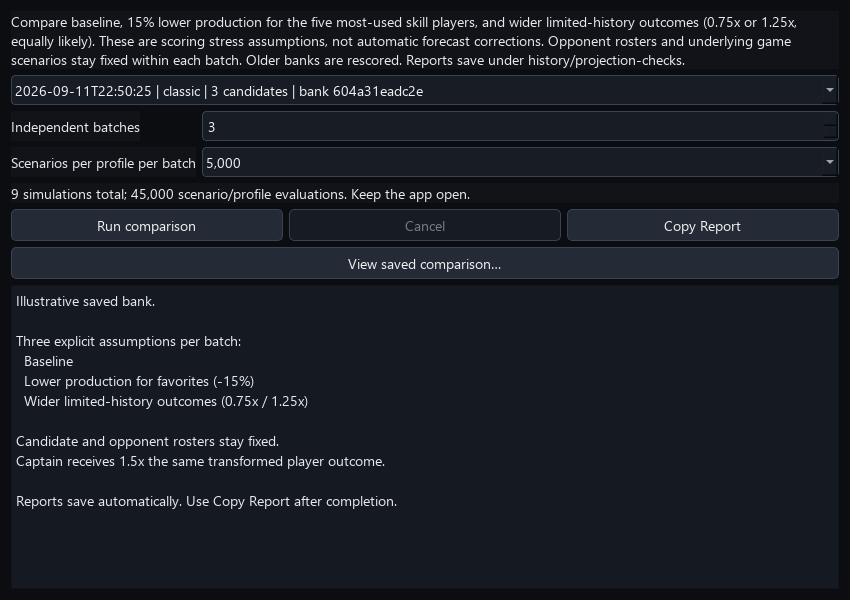
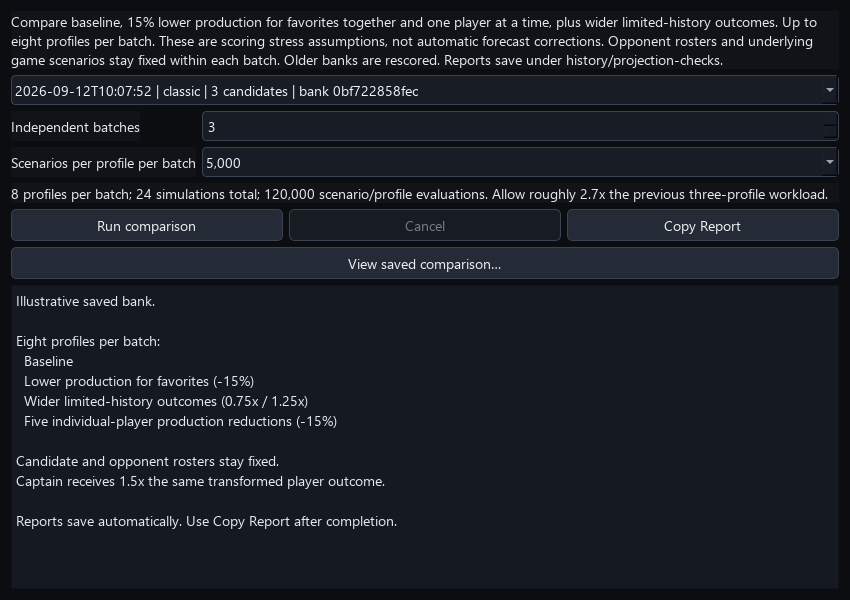
Add individual-player production sensitivity for Classic and Showdown

diff --git a/projection_sensitivity.py b/projection_sensitivity.py
@@ -14,7 +14,7 @@ from lineup_ranking import ranked_lineups
 from nfl_simulation import player_key
 
 PROFILES = ('Baseline', 'Lower production for favorites', 'Wider limited-history outcomes')
-VERSION = 'projection-stress-v2'
+VERSION = 'projection-stress-v3'
 from usage_history import history_evidence
 
 def roster(lu, kind):
@@ -45,6 +45,14 @@ def prepare_targets(payload):
                           low=.75, high=1.25, **evidence))
     return {PROFILES[0]:[], PROFILES[1]:lower, PROFILES[2]:wider}
 
+def comparison_targets(payload, individual=True):
+    targets = prepare_targets(payload)
+    if individual:
+        for i, target in enumerate(targets[PROFILES[1]], 1):
+            targets[f"Lower production: {target['player']} (individual {i})"] = [dict(target)]
+    return targets
+
+
 class OutcomeStress:
     def __init__(self, profile, targets, seed):
         self.profile=profile; self.targets={p['key'] for p in targets}
@@ -55,7 +63,7 @@ class OutcomeStress:
         result=dict(outcomes); self.count+=1
         for k in sorted(self.targets):
             if k not in outcomes: continue
-            scale = .85 if self.profile==PROFILES[1] else (.75 if self.rng.random()<.5 else 1.25)
+            scale = .85 if self.profile!=PROFILES[2] else (.75 if self.rng.random()<.5 else 1.25)
             result[k]=outcomes[k]*scale
             sums=self.sums[k]; sums[0]+=outcomes[k]; sums[1]+=result[k]; sums[2]+=1
         return result
@@ -63,16 +71,16 @@ class OutcomeStress:
         return dict(base_outcome_id=self.digest.hexdigest(),scenarios=self.count,
                     player_means={k:dict(baseline=a/n,stressed=b/n) for k,(a,b,n) in self.sums.items() if n})
 
-def run_projection(path, *, batches=3, scenarios=5000, cancelled=lambda:False, progress=lambda s:None, simulate=None):
+def run_projection(path, *, batches=3, scenarios=5000, cancelled=lambda:False, progress=lambda s:None, simulate=None, individual=True):
     if not 1<=batches<=5 or not 1000<=scenarios<=10000: raise ValueError('Use 1–5 batches and 1,000–10,000 scenarios.')
-    bank=load_sensitivity_bank(path); p=bank['payload']; targets=prepare_targets(p)
+    bank=load_sensitivity_bank(path); p=bank['payload']; targets=comparison_targets(p, individual); profiles=tuple(targets)
     reference=candidates(p); keys=[identity(lu,p['kind']) for lu in reference]
     if len(set(keys))!=len(keys): raise ValueError('Duplicate candidate identities.')
-    observations={name:[] for name in PROFILES}; evidence=[]; seeds=[]; fields=[]
+    observations={name:[] for name in profiles}; evidence=[]; seeds=[]; fields=[]
     for batch in range(batches):
         if cancelled(): break
         seed=1200007+batch*100003; paired={}; proof={}; diagnostics={}; field_id=None; base_id=None
-        for name in PROFILES:
+        for name in profiles:
             if cancelled(): break
             progress(f'Batch {batch+1}/{batches}: {name}')
             transform=OutcomeStress(name,targets[name],seed)
@@ -106,13 +114,13 @@ def run_projection(path, *, batches=3, scenarios=5000, cancelled=lambda:False, p
                     raise ValueError('Incomplete or invalid candidate scores.')
                 scored[identity(lu,p['kind'])]=dict(rank=i,top1=float(m['sim_top_one_pct']),mean=float(m['sim_mean']))
             paired[name]=scored; proof[name]=ev; diagnostics[name]=diag
-        if len(paired)!=len(PROFILES): break
-        for name in PROFILES: observations[name].append(paired[name])
+        if len(paired)!=len(profiles): break
+        for name in profiles: observations[name].append(paired[name])
         evidence.append(proof); fields.append(diagnostics); seeds.append(seed)
     rows=[]
     for i,(key,lu) in enumerate(zip(keys,reference),1):
         label=' | '.join(('CPT: ' if p['kind']=='showdown' and j==0 else '')+str(v.get('Name','')) for j,v in enumerate(roster(lu,p['kind'])))
-        for name in PROFILES:
+        for name in profiles:
             obs=[batch[key] for batch in observations[name]]; row=dict(saved_rank=i,lineup=label,profile=name)
             if obs:
                 base=mean(b[key]['top1'] for b in observations[PROFILES[0]])
@@ -124,7 +132,7 @@ def run_projection(path, *, batches=3, scenarios=5000, cancelled=lambda:False, p
     return dict(comparison_type='projection',sensitivity_version=VERSION,status='completed' if len(seeds)==batches else 'incomplete',
                 bank_id=bank['bank_id'],input_id=p['input_id'],kind=p['kind'],saved_model=p['model_version'],current_model=model_version(),
                 completed_batches=len(seeds),requested_batches=batches,scenarios=scenarios,opponents=p['field_count'],candidate_count=len(reference),
-                seeds=seeds,targets=targets,evidence=evidence,fields=fields,rows=rows)
+                profiles=list(profiles),individual_tests=individual,seeds=seeds,targets=targets,evidence=evidence,fields=fields,rows=rows)
 
 def format_projection(r):
     lines=['DFS Projection Sensitivity',f"Status: {r['status']}; matched batches {r['completed_batches']}/{r['requested_batches']}",
@@ -134,8 +142,10 @@ def format_projection(r):
            'Lower production: the five most-used QB/RB/WR/TE players in the saved top150 receive 15% lower simulated points, as a workload-shortfall proxy. Touches, game scripts, teammate shares and specialist effects are not recalculated.',
            'Wider outcomes: explicit rookies or players with missing full-season evidence / fewer than four matched games across available current and prior seasons receive independent 0.75x or 1.25x score multipliers with equal probability per scenario. Conditional expected scores are preserved, but finite-sample means can vary. Missing history does not establish rookie status. Counts cover available regular-season rows, not career games. The recent four-week form window is separate. Old banks retain their recorded inputs; reload salaries and build a new bank to capture full-season evidence.',
            'These are explicit hypothetical assumptions, not fitted projection corrections or historical validation. Inputs, ownership, selected outputs and limits remain unchanged. No joint ownership-plus-projection stress is implied.',
-           'Ranks use simulated finish-rate order within this bank; exact ties preserve bank order. Repeating settings repeats seeds. Only complete three-profile batches count.']
-    for name in PROFILES[1:]:
+           'Ranks use simulated finish-rate order within this bank; exact ties preserve bank order. Repeating settings repeats seeds. Only batches completing every requested profile count. Individual reductions use the same 15% scoring proxy, one favorite at a time; effects are not additive because contest ranks are nonlinear.']
+    profiles=r.get('profiles',list(PROFILES))
+    lines.append(f'- Profiles per batch: {len(profiles)}; simulations requested: {len(profiles)*r["requested_batches"]}.')
+    for name in profiles[1:]:
         targets=r['targets'][name]; lines+=['',f'{name}: {len(targets)} targeted players']
         for v in targets[:30]: lines.append(f"- {v['player']}: {v['reason']}"+(f"; saved contender exposure {v['exposure_pct']:.1f}%" if 'exposure_pct' in v else f"; recent-window games {v['usage_games']}; current-season games {v.get('current_games')}; prior-season games {v.get('prior_games')}"))
         if len(targets)>30: lines.append(f'- {len(targets)-30} additional targets in the saved JSON report.')
@@ -145,9 +155,20 @@ def format_projection(r):
         lines+=['','Current baseline leaders and projection sensitivity:']
         for b in leaders:
             lines.append(f"- Saved #{b['saved_rank']}: baseline top1 {b['mean_top1']:.2f}%; mean points {b['mean_points']:.2f}. {b['lineup']}")
-            for x in (x for x in r['rows'] if x['saved_rank']==b['saved_rank'] and x['profile']!=PROFILES[0]):
+            for x in (x for x in r['rows'] if x['saved_rank']==b['saved_rank'] and x['profile'] in PROFILES[1:]):
                 lines.append(f"  {x['profile']}: top1 {x['mean_top1']:.2f}% ({x['change_pp']:+.2f} pp); mean points {x['mean_points']:.2f}; rank {x['best_rank']}–{x['worst_rank']}; top150 {x['top150_batches']}/{r['completed_batches']}.")
-        lines+=['','Largest top1 declines under either stress:']
+            individual_rows=[x for x in r['rows'] if x['saved_rank']==b['saved_rank'] and x['profile'] not in PROFILES]
+            if individual_rows:
+                worst=min(individual_rows,key=lambda x:x['mean_top1'])
+                lines.append(f"  Largest individual decline: {worst['profile']}: top1 {worst['mean_top1']:.2f}% ({worst['change_pp']:+.2f} pp); rank {worst['best_rank']}–{worst['worst_rank']}." if worst['change_pp']<0 else '  No individual-player test reduced this lineup’s average top1 rate.')
+        lines+=['','Individual-player dependencies among baseline top150:']
+        leader_ranks={x['saved_rank'] for x in sorted((x for x in r['rows'] if x['profile']==PROFILES[0]),key=lambda x:-x['mean_top1'])[:150]}
+        for name in profiles[3:]:
+            subset=[x for x in r['rows'] if x['profile']==name and x['saved_rank'] in leader_ranks]
+            if subset:
+                worst=min(subset,key=lambda x:x['change_pp'])
+                lines.append(f"- {name}: average top1 change {mean(x['change_pp'] for x in subset):+.2f} pp across {len(subset)} baseline leaders; largest decline saved #{worst['saved_rank']}: {worst['change_pp']:+.2f} pp.")
+        lines+=['','Largest top1 declines across tested profiles:']
         declines=sorted((x for x in r['rows'] if x['profile']!=PROFILES[0] and x['change_pp']<0),key=lambda x:x['change_pp'])[:10]
         for x in declines:lines.append(f"- Saved #{x['saved_rank']}, {x['profile']}: {x['change_pp']:+.2f} pp; {x['lineup']}")
         if not declines:lines.append('- No declines in completed batches.')

diff --git a/projection_sensitivity_ui.py b/projection_sensitivity_ui.py
@@ -4,7 +4,8 @@ from pathlib import Path
 from PyQt5 import QtWidgets
 from build_diagnostics import build_history_path
 from ownership_sensitivity_ui import SensitivityWorker,SensitivityDialog
-from projection_sensitivity import run_projection,save_projection,format_projection
+from projection_sensitivity import run_projection,save_projection,format_projection,comparison_targets
+from ownership_sensitivity import load_sensitivity_bank
 
 class ProjectionWorker(SensitivityWorker):
     def run(self):
@@ -19,8 +20,23 @@ class ProjectionDialog(SensitivityDialog):
     worker_type=ProjectionWorker
     def __init__(self,parent=None):
         super().__init__(parent);self.setWindowTitle('Projection Sensitivity')
-        self.findChildren(QtWidgets.QLabel)[0].setText('Compare baseline, 15% lower production for the five most-used skill players, and wider limited-history outcomes (0.75x or 1.25x, equally likely). These are scoring stress assumptions, not automatic forecast corrections. Opponent rosters and underlying game scenarios stay fixed within each batch. Older banks are rescored. Reports save under history/projection-checks.')
+        self.findChildren(QtWidgets.QLabel)[0].setText('Compare baseline, 15% lower production for favorites together and one player at a time, plus wider limited-history outcomes. Up to eight profiles per batch. These are scoring stress assumptions, not automatic forecast corrections. Opponent rosters and underlying game scenarios stay fixed within each batch. Older banks are rescored. Reports save under history/projection-checks.')
         self.review_button.clicked.disconnect()
         from ownership_review_ui import open_review
         self.review_button.clicked.connect(lambda:open_review(self,comparison='projection'))
-        if self.bank.count():self.text.setPlainText('Three profiles per batch. Workload shortfall uses a scoring proxy; touches are not redistributed. Missing usage history does not establish rookie status. Keep the app open; only complete batches count.')
+        if self.bank.count():self.text.setPlainText('Up to eight profiles per batch, including five individual-player tests. Workload shortfall uses a scoring proxy; touches are not redistributed. Missing usage history does not establish rookie status. Keep the app open; only complete batches count.')
+
+        self.batches.valueChanged.disconnect()
+        self.scenarios.currentIndexChanged.disconnect()
+        self.batches.valueChanged.connect(self.describe_work)
+        self.scenarios.currentIndexChanged.connect(self.describe_work)
+        self.bank.currentIndexChanged.connect(self.describe_work)
+        self.describe_work()
+
+    def describe_work(self):
+        try:
+            profiles=len(comparison_targets(load_sensitivity_bank(self.bank.currentData())['payload']))
+        except (OSError,ValueError,TypeError):
+            profiles=8
+        count=self.batches.value()*profiles
+        self.work_label.setText(f'{profiles} profiles per batch; {count} simulations total; {count*self.scenarios.currentData():,} scenario/profile evaluations. Allow roughly {profiles/3:.1f}x the previous three-profile workload.')

diff --git a/test_individual_projection.py b/test_individual_projection.py
@@ -1,0 +1,49 @@
+import copy
+import tempfile
+import unittest
+from pathlib import Path
+import test_projection_sensitivity as fixtures
+from projection_sensitivity import run_projection, save_projection, format_projection, OutcomeStress, PROFILES
+from ownership_review import load_review
+
+
+class IndividualProjectionTests(unittest.TestCase):
+    def test_single_target_and_shared_captain_outcome(self):
+        stress=OutcomeStress('Individual', [{'key':'a'}], 1)
+        self.assertEqual(stress({'a':20.,'b':10.}), {'a':17.,'b':10.})
+        from showdown_simulation import showdown_score
+        from optimizers import ShowdownLineup
+        self.assertEqual(showdown_score(ShowdownLineup({'FlexID':'a'},[{'FlexID':'b'}]),stress({'a':20.,'b':10.})),35.5)
+
+    def test_both_real_simulators_dynamic_review_and_unchanged_bank(self):
+        for kind in ('classic','showdown'):
+            with tempfile.TemporaryDirectory() as folder:
+                path,_,_=fixtures.ProjectionSensitivityTests().bank(folder,kind); original=path.read_bytes()
+                report=run_projection(path,batches=1,scenarios=1000)
+                self.assertEqual(len(report['profiles']),8)
+                proof=report['evidence'][0]
+                self.assertEqual(len({p['base_outcome_id'] for p in proof.values()}),1)
+                self.assertEqual(len({p['opponent_field_id'] for p in proof.values()}),1)
+                for name in report['profiles'][3:]:
+                    self.assertEqual(len(report['targets'][name]),1)
+                    for means in proof[name]['player_means'].values():self.assertAlmostEqual(means['stressed'],means['baseline']*.85)
+                dest=Path(folder)/'new.json';save_projection(dest,report)
+                self.assertEqual(len(load_review(dest,folder,comparison='projection')['rows']),3)
+                self.assertIn('Individual-player dependencies',format_projection(report))
+                self.assertEqual(path.read_bytes(),original)
+                broken=copy.deepcopy(report);broken['rows']=broken['rows'][:-1];save_projection(dest,broken)
+                with self.assertRaises(ValueError):load_review(dest,folder,comparison='projection')
+                broken=copy.deepcopy(report);broken['profiles'][-1]='Unknown';save_projection(dest,broken)
+                with self.assertRaises(ValueError):load_review(dest,folder,comparison='projection')
+
+    def test_incomplete_individual_profile_discards_whole_batch(self):
+        with tempfile.TemporaryDirectory() as folder:
+            path,_,_=fixtures.ProjectionSensitivityTests().bank(folder,'classic');calls=[]
+            def simulate(rows,players,**kw):
+                calls.append(1)
+                for _ in range(1000):kw['outcome_transform']({'a':20.})
+                return dict(lineups=rows,report=dict(scenarios=999 if len(calls)==8 else 1000,sensitivity_field_id='same'))
+            report=run_projection(path,batches=1,scenarios=1000,simulate=simulate)
+            self.assertEqual(len(calls),8)
+            self.assertEqual(report['completed_batches'],0)
+            self.assertEqual(report['status'],'incomplete')

diff --git a/test_projection_sensitivity.py b/test_projection_sensitivity.py
@@ -58,7 +58,7 @@ class ProjectionSensitivityTests(unittest.TestCase):
                 path,p,raw=self.bank(f,kind);original=path.read_bytes();before=copy.deepcopy(p)
                 sim=simulate_nfl_contest if kind=='classic' else simulate_showdown
                 ordinary=sim(raw,p,scenarios=1000,field_lineup_count=20,seed=1200007)
-                report=run_projection(path,batches=1,scenarios=1000)
+                report=run_projection(path,individual=False,batches=1,scenarios=1000)
                 self.assertEqual(report['status'],'completed');self.assertEqual(path.read_bytes(),original);self.assertEqual(p,before)
                 proof=report['evidence'][0]
                 self.assertEqual(len({v['base_outcome_id'] for v in proof.values()}),1)
@@ -87,11 +87,11 @@ class ProjectionSensitivityTests(unittest.TestCase):
                     return dict(lineups=rows,report=dict(scenarios=999 if changed=='partial' and n==5 else 1000,
                         sensitivity_field_id=str(n if changed=='field' else 1)))
                 if changed=='partial':
-                    r=run_projection(path,batches=2,scenarios=1000,simulate=sim)
+                    r=run_projection(path,individual=False,batches=2,scenarios=1000,simulate=sim)
                     self.assertEqual(r['completed_batches'],1);self.assertEqual(r['status'],'incomplete')
                 else:
-                    with self.assertRaises(ValueError):run_projection(path,batches=1,scenarios=1000,simulate=sim)
-            r=run_projection(path,batches=1,scenarios=1000,cancelled=lambda:True)
+                    with self.assertRaises(ValueError):run_projection(path,individual=False,batches=1,scenarios=1000,simulate=sim)
+            r=run_projection(path,individual=False,batches=1,scenarios=1000,cancelled=lambda:True)
             self.assertEqual(r['completed_batches'],0)
 
     def test_projection_and_ownership_columns_coexist_and_sort_both_formats(self):

diff --git a/ownership_review.py b/ownership_review.py
@@ -33,8 +33,12 @@ def load_review(path, bank_folder, comparison='ownership'):
         raise ValueError('Choose a completed comparison with all requested batches.')
     if report.get('kind') != payload['kind'] or report.get('input_id') != payload['input_id'] or report.get('saved_model') != payload['model_version']:
         raise ValueError('Comparison does not match its saved bank.')
+    if comparison=='projection' and report.get('sensitivity_version')=='projection-stress-v3':
+        from projection_sensitivity import comparison_targets
+        profiles=tuple(comparison_targets(payload, report.get('individual_tests',True)))
+        if report.get('profiles')!=list(profiles): raise ValueError('Invalid projection profile definitions.')
     reference = candidates(payload)
-    if report.get('candidate_count') != len(reference) or len(report.get('rows', [])) != 3 * len(reference):
+    if report.get('candidate_count') != len(reference) or len(report.get('rows', [])) != len(profiles) * len(reference):
         raise ValueError('Incomplete candidate comparison.')
     grouped = {}
     for row in report['rows']:

diff --git a/docs/USER_GUIDE.md b/docs/USER_GUIDE.md
@@ -1270,7 +1270,7 @@ Every batch runs three profiles:
 
 Classic preserves each position's original ownership total. Showdown preserves 100% Captain and 500% FLEX separately, with combined player exposure capped at 100%. Salary and roster constraints remain in force; target ownership is approximate and realized constructions can change. The report shows actual field mismatch, salary and duplication counts.
 
-Default **3 batches × 3 profiles × 5,000 scenarios** runs nine simulations. Choose 1–5 batches and 2,000, 5,000 or 10,000 scenarios per profile. The window displays total work; allow several minutes per profile depending on bank size and hardware. Keep the app open. Cancel retains only complete three-profile batches. Repeating identical settings uses identical seeds. The saved bank is read-only; selected lineups and exposure limits are unchanged.
+Default **3 batches × 3 profiles × 5,000 scenarios** runs nine simulations. Choose 1–5 batches and 2,000, 5,000 or 10,000 scenarios per profile. The window displays total work; allow several minutes per profile depending on bank size and hardware. Keep the app open. Cancel retains only complete all-profile batches. Repeating identical settings uses identical seeds. The saved bank is read-only; selected lineups and exposure limits are unchanged.
 
 Scoring inputs, candidate identities and outcome seeds stay fixed within each batch; only opponent ownership inputs change. A changed candidate identity or mean candidate score rejects the comparison. Reports show current baseline leaders, alternative top1 rates, percentage-point changes, rank ranges and top150 batch counts. Exact rank ties preserve bank order; banks smaller than 150 use the whole bank. Sample roster matches are not full-contest duplicate predictions; zero matches do not establish uniqueness.
 
@@ -1297,7 +1297,7 @@ Column clicks sort all current output pages while preserving saved-lineup identi
 
 ## Projection sensitivity
 
-Open **Settings > Projection Sensitivity**, select an existing Classic or Showdown bank, and run the comparison. A new Deep build is not required; every baseline is rescored using current code. Defaults are **3 batches × 3 profiles × 5,000 scenarios** (nine simulations). Keep the app open and allow several minutes per profile. Cancel preserves only fully completed three-profile batches. Repeating the same settings uses the same seeds.
+Open **Settings > Projection Sensitivity**, select an existing Classic or Showdown bank, and run the comparison. A new Deep build is not required; every baseline is rescored using current code. Defaults are **3 batches × up to 8 profiles × 5,000 scenarios** (up to 24 simulations). Keep the app open and allow several minutes per profile. Cancel preserves only fully completed all-profile batches. Repeating the same settings uses the same seeds.
 
 The profiles are explicit stress assumptions:
 
@@ -1321,3 +1321,8 @@ NFL Classic and Showdown keep two separate records: recent form from the latest 
 Projection Sensitivity's wider-outcomes profile targets explicit rookie flags, fewer than four matched games across those available seasons, or unknown history. Each target explains why and lists current/prior counts separately from recent-window games. Missing or ambiguous matches are unknown, never observed zero games. Unavailable source coverage is labeled. Players with at least four matched games across the available seasons are excluded from this particular stress unless explicitly marked as rookies.
 
 Old snapshots and banks stay frozen. To capture full-season evidence, update the app, reload the salary CSV with automatic NFL data enabled, and complete a new Deep build. Then run **Settings > Projection Sensitivity** on that new bank. Replaying an old snapshot or testing an old bank does not fetch new history. Legacy reports remain viewable; new checks on old banks label missing full-season evidence explicitly. This change improves stress targeting and reports; it does not change recent-form workload weights or automatically adjust projections.
+
+
+Projection Sensitivity now tests each of the five saved favorites individually at 15% lower simulated production, alongside baseline, the combined reduction and wider-history outcomes. Classic and Showdown both support this. Defaults run up to eight profiles per batch: 3 batches at 5,000 scenarios means 24 simulations, roughly 2.7 times the former three-profile workload. The dialog shows the exact profile count for the selected bank. Existing banks can be reused; no new Deep build is required for these additional tests.
+
+Copy Report identifies each displayed baseline leader's largest individual decline and summarizes each tested player's effect across the baseline top150. JSON/CSV retain all candidate/profile/batch results. Effects apply equally to opponents and candidates, with shared Captain scoring; they do not redistribute touches or add up to the combined effect. Every requested profile must finish before a batch counts. Saved comparison columns include all tested profiles in lowest-rate/rank summaries; older three-profile reports remain viewable. This diagnoses dependence on forecasts, not proven projection errors or automatic exposure changes.

diff --git a/docs/releases/v1.19.0.md b/docs/releases/v1.19.0.md
@@ -182,3 +182,8 @@ The scan runs only when clicked. Keep **Import DraftKings Results** for selectin
 
 
 - Corrected limited-history projection stress targeting for NFL Classic and Showdown: full current/prior-season evidence is separate from the recent four-week form window. Distinct weekly observations survive trades when stable player IDs agree; ambiguous names and missing sources remain unknown. Reports and future export records retain that evidence. Existing frozen banks require a fresh salary import and build to capture it; recent-form projection weights are unchanged.
+
+
+Projection Sensitivity now tests each of the five saved favorites individually at 15% lower simulated production, alongside baseline, the combined reduction and wider-history outcomes. Classic and Showdown both support this. Defaults run up to eight profiles per batch: 3 batches at 5,000 scenarios means 24 simulations, roughly 2.7 times the former three-profile workload. The dialog shows the exact profile count for the selected bank. Existing banks can be reused; no new Deep build is required for these additional tests.
+
+Copy Report identifies each displayed baseline leader's largest individual decline and summarizes each tested player's effect across the baseline top150. JSON/CSV retain all candidate/profile/batch results. Effects apply equally to opponents and candidates, with shared Captain scoring; they do not redistribute touches or add up to the combined effect. Every requested profile must finish before a batch counts. Saved comparison columns include all tested profiles in lowest-rate/rank summaries; older three-profile reports remain viewable. This diagnoses dependence on forecasts, not proven projection errors or automatic exposure changes.

diff --git a/README.md b/README.md
@@ -628,3 +628,8 @@ NFL Deep builds now save the validated shortlist automatically. Open **Settings 
 
 
 Projection checks distinguish recent four-week form from full available current/prior-season history for both NFL formats. Reload salaries and create a new Deep bank after updating to capture the new evidence; old snapshots remain frozen. See the [full-season history guide](docs/USER_GUIDE.md#full-season-history-in-projection-checks).
+
+
+Projection Sensitivity now tests each of the five saved favorites individually at 15% lower simulated production, alongside baseline, the combined reduction and wider-history outcomes. Classic and Showdown both support this. Defaults run up to eight profiles per batch: 3 batches at 5,000 scenarios means 24 simulations, roughly 2.7 times the former three-profile workload. The dialog shows the exact profile count for the selected bank. Existing banks can be reused; no new Deep build is required for these additional tests.
+
+Copy Report identifies each displayed baseline leader's largest individual decline and summarizes each tested player's effect across the baseline top150. JSON/CSV retain all candidate/profile/batch results. Effects apply equally to opponents and candidates, with shared Captain scoring; they do not redistribute touches or add up to the combined effect. Every requested profile must finish before a batch counts. Saved comparison columns include all tested profiles in lowest-rate/rank summaries; older three-profile reports remain viewable. This diagnoses dependence on forecasts, not proven projection errors or automatic exposure changes.
